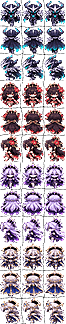
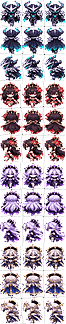
전설 스킨 검은 경계(헤일로) 제거
legskins.png를 프리멀티플라이드 알파로 재축소해, 투명 영역의
검정(RGB 0,0,0)이 LANCZOS 축소 시 가장자리에 섞여 생기던
검은 헤일로를 제거. 셀 크기(22x27)·좌표 불변.

Claude-Session: https://claude.ai/code/session_01X4GXs6swjtgSkSe7EQABgB

diff --git a/CHANGELOG.md b/CHANGELOG.md
@@ -1,3 +1,6 @@
+## 전설 스킨 검은 경계(헤일로) 제거
+- 전설 스킨 4종 스프라이트시트를 프리멀티플라이드 알파로 재축소 — 투명 영역의 검정이 가장자리에 번지던 검은 헤일로 제거
+
 ## 샘 공격이펙트 롤백 · 샘 도트수 ↑ · 반디 걷기 프레임 애니메이션
 - 샘 변신 베기 이펙트를 이전(청록) 상태로 롤백
 - 샘 스프라이트를 원본에서 더 높은 해상도(세로 40px)로 재생성 — 또렷하게
